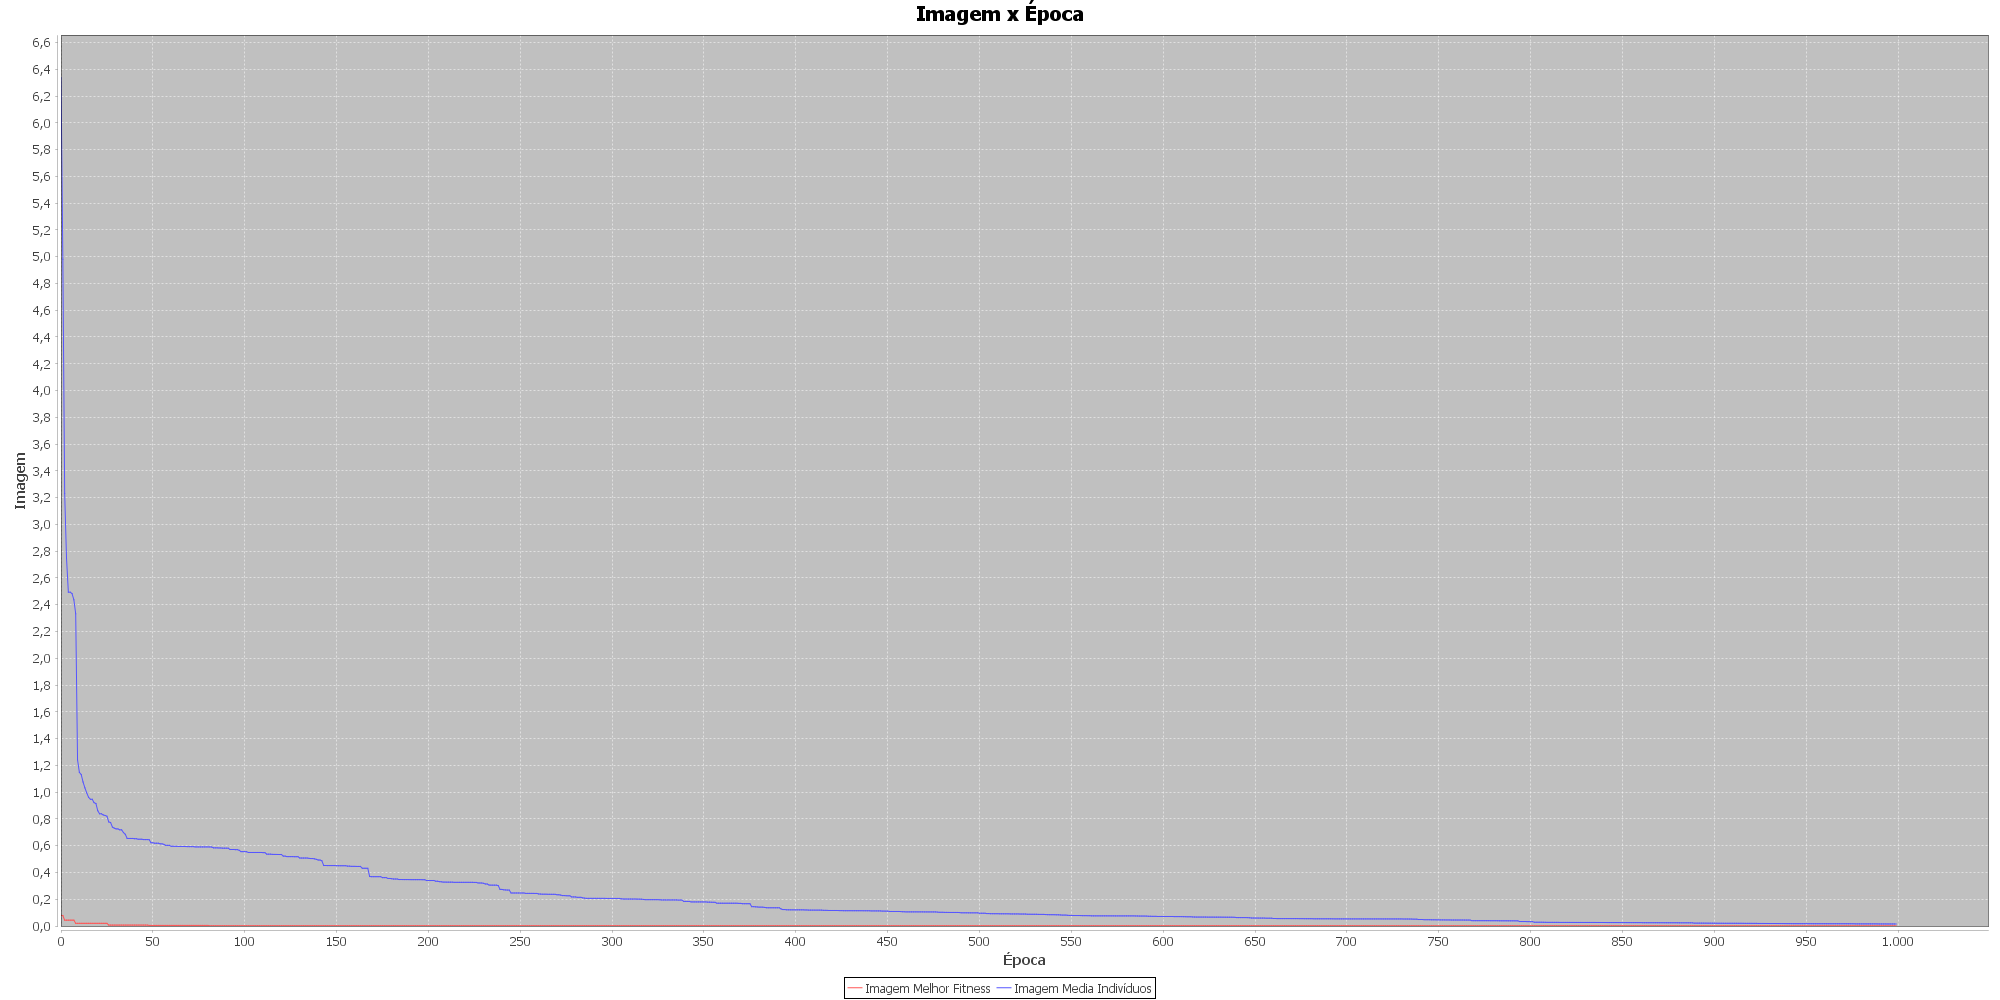
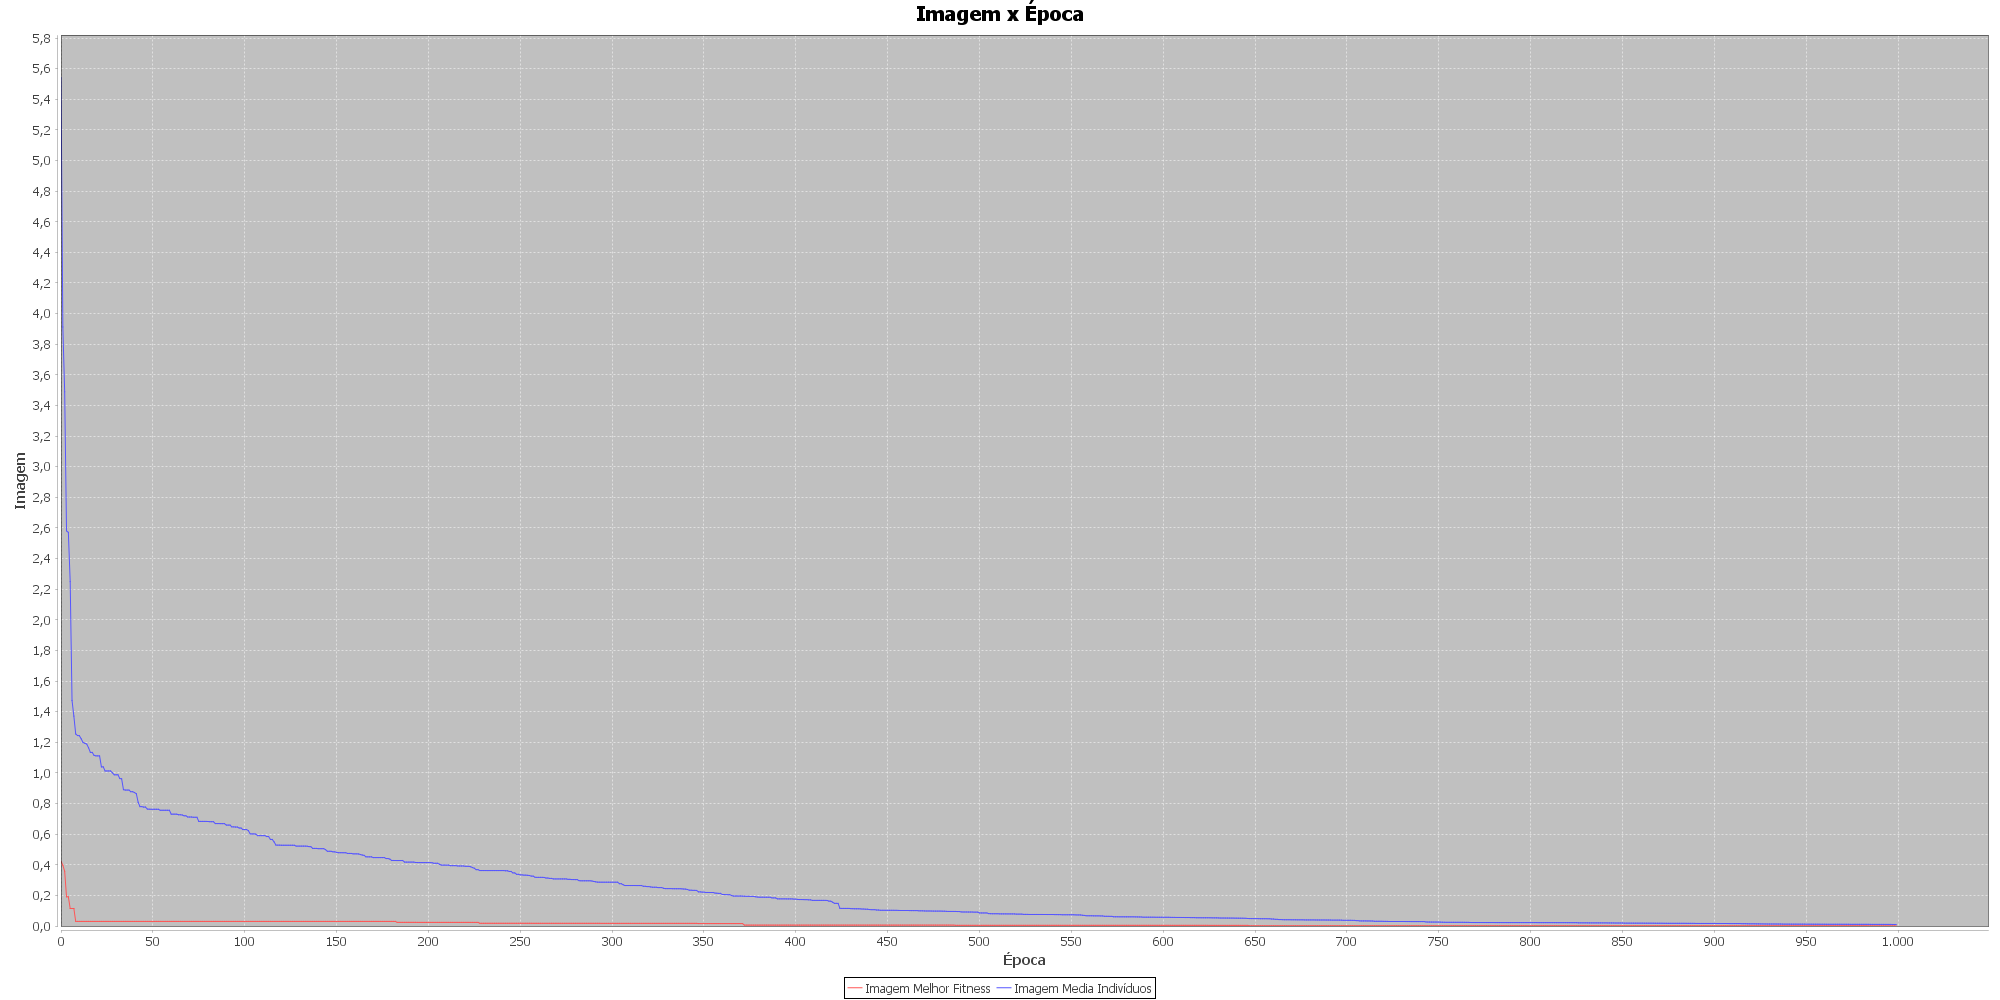
Truncamento domínio

diff --git a/src/br/com/marcos/controller/DiferencialEvolution.java b/src/br/com/marcos/controller/DiferencialEvolution.java
@@ -29,12 +29,10 @@ public class DiferencialEvolution {
     static final int AMOUNT_INDIVIDUALS = 20;
     static final double F = 0.5;
 
-    
-
     public static void main(String[] args) throws FileNotFoundException, IOException {
         XYSeries melhorFitness = new XYSeries("Imagem Melhor Fitness");
         XYSeries mediaFitness = new XYSeries("Imagem Media Indivíduos");
-    
+
         population = new Individual[AMOUNT_INDIVIDUALS];
 
         generatePopulation(population);
@@ -48,20 +46,19 @@ public class DiferencialEvolution {
             melhorFitness.add(i, betterIndividual.getFitness());
             mediaFitness.add(i, media);
         }
-        
+
         XYSeriesCollection graficoFitness = new XYSeriesCollection();
-        
+
         graficoFitness.addSeries(melhorFitness);
         graficoFitness.addSeries(mediaFitness);
-        
+
         JFreeChart chartQtde = ChartFactory.createXYLineChart("Imagem x Época", "Época", "Imagem", graficoFitness, PlotOrientation.VERTICAL, true, true, false);
-        
+
         OutputStream imgGraf1 = new FileOutputStream("Fitness.png");
         ChartUtilities.writeChartAsPNG(imgGraf1, chartQtde, 2000, 1000);
-        
-        
+
         GerarGrafico.exec(melhorFitness, mediaFitness, "Imagem x Época");
-        
+
     }
 
     public static void generatePopulation(Individual population[]) {
@@ -142,8 +139,22 @@ public class DiferencialEvolution {
         ind_diference.setX(F * (ind1.getX() - ind2.getX()));
         ind_diference.setY(F * (ind1.getY() - ind2.getY()));
 
-        ind_noise.setX(ind_diference.getX() + ind3.getX());
-        ind_noise.setY(ind_diference.getY() + ind3.getY());
+        double x = ind_diference.getX() + ind3.getX();
+        double y = ind_diference.getY() + ind3.getY();
+
+        if (x > 10) {
+            x = 10;
+        } else if (x < -10) {
+            x = -10;
+        }
+
+        if (y > 10) {
+            y = 10;
+        } else if (y < -10) {
+            y = -10;
+        }
+        ind_noise.setX(x);
+        ind_noise.setY(y);
 
         return ind_noise;
     }
